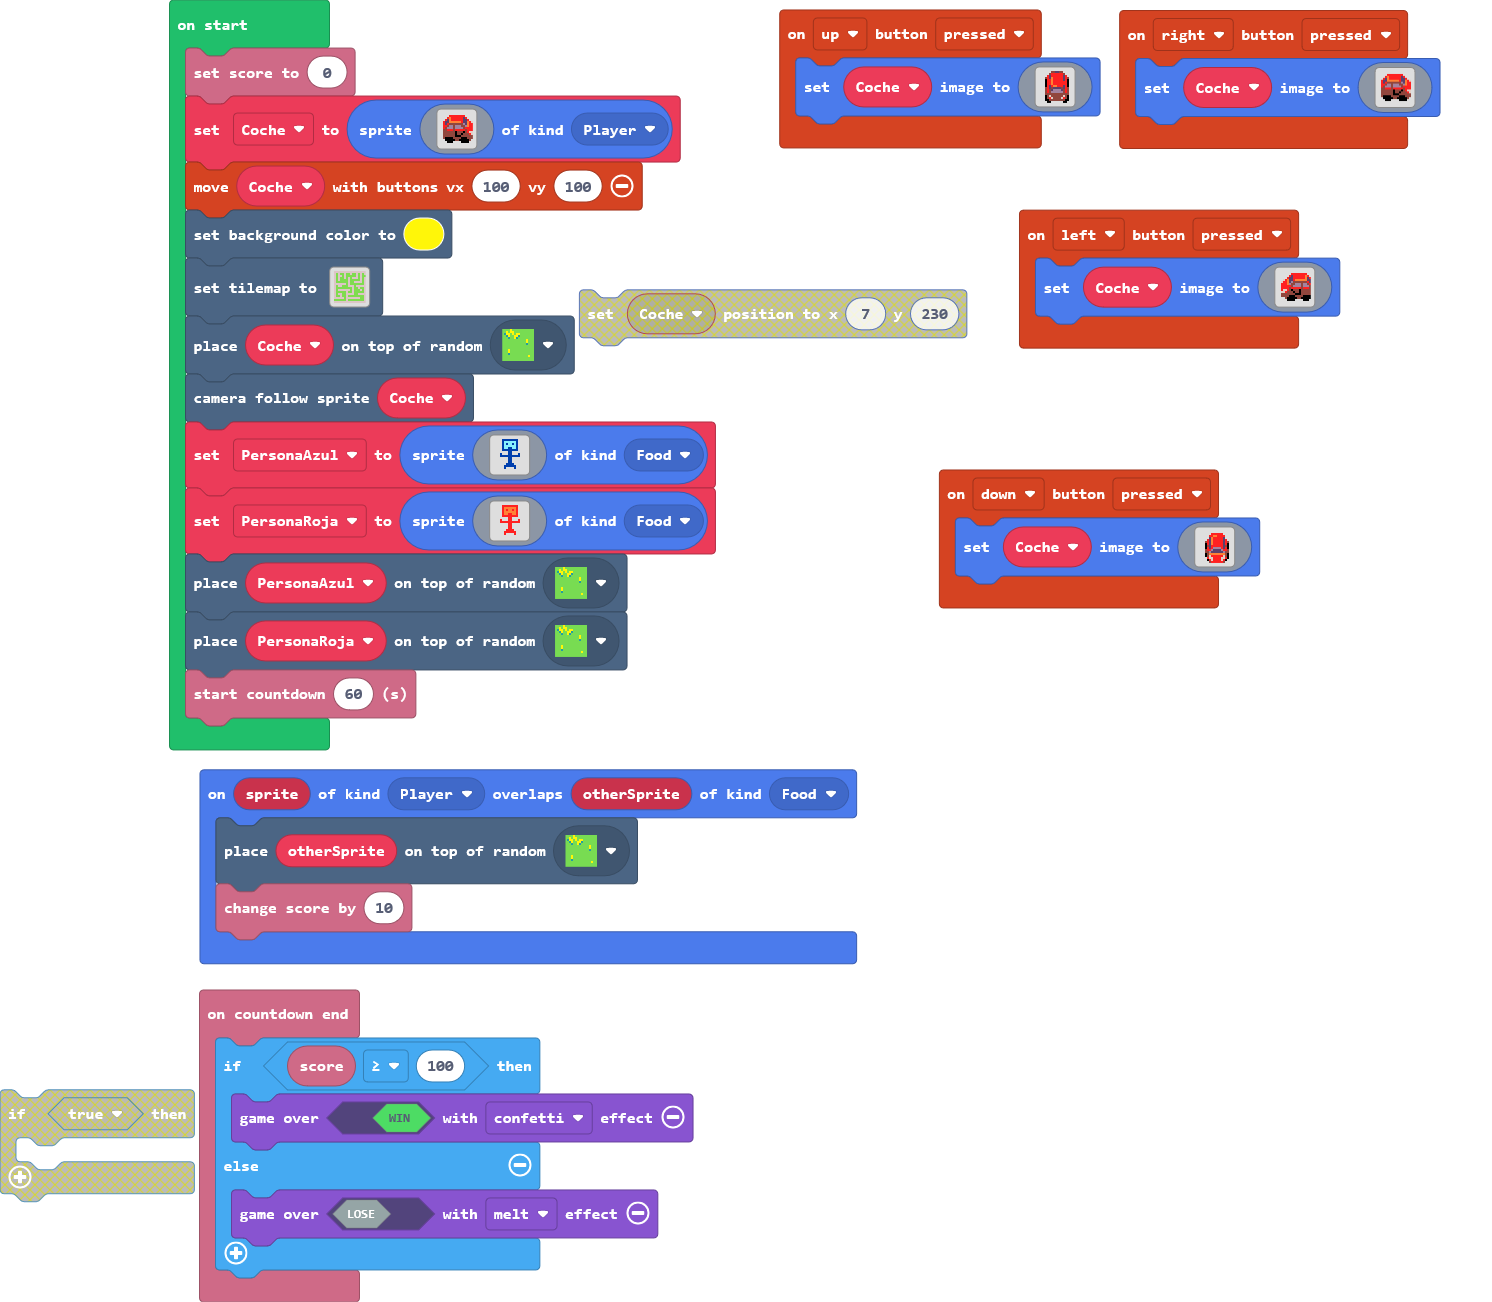
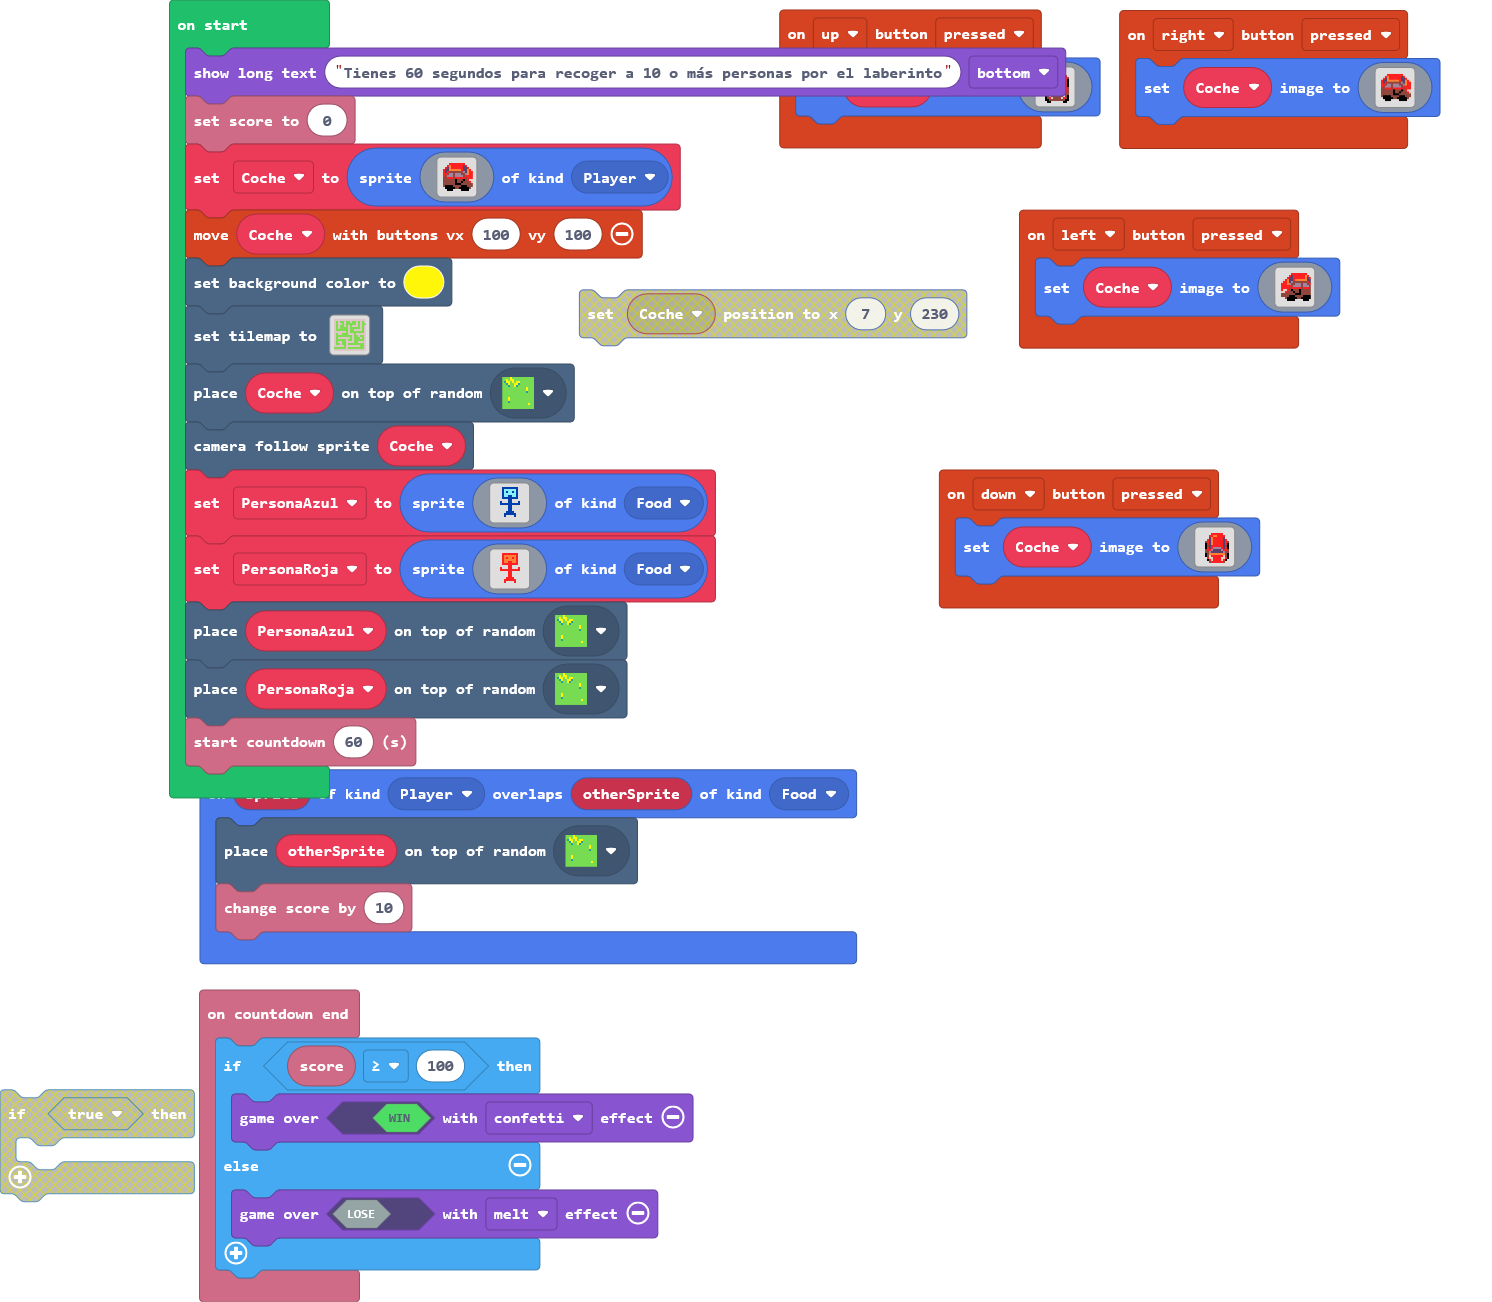
Instrucciones

Changed region(s): [[0.0925, 0.0307, 0.7399, 0.6144]]

diff --git a/main.ts b/main.ts
@@ -90,6 +90,7 @@ sprites.onOverlap(SpriteKind.Player, SpriteKind.Food, function (sprite, otherSpr
     info.changeScoreBy(10)
 })
 let Coche: Sprite = null
+game.showLongText("Tienes 60 segundos para recoger a 10 o más personas por el laberinto", DialogLayout.Bottom)
 info.setScore(0)
 Coche = sprites.create(img`
     . . . . . . . . . . . . . . . . 
